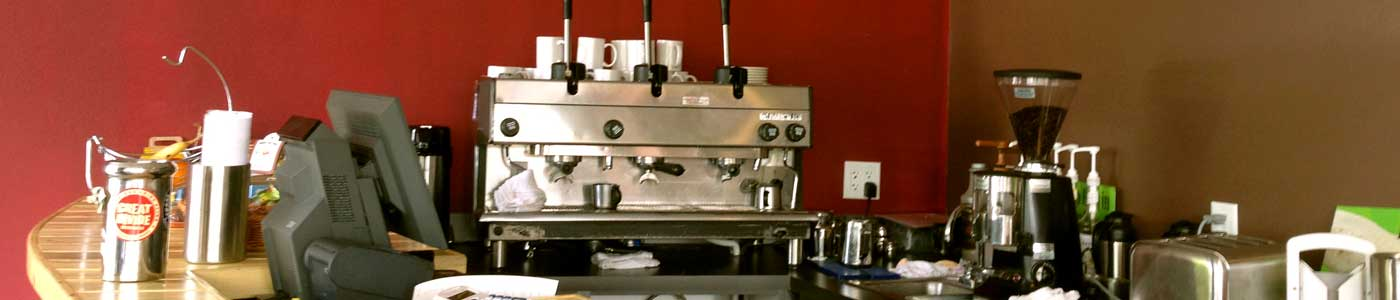
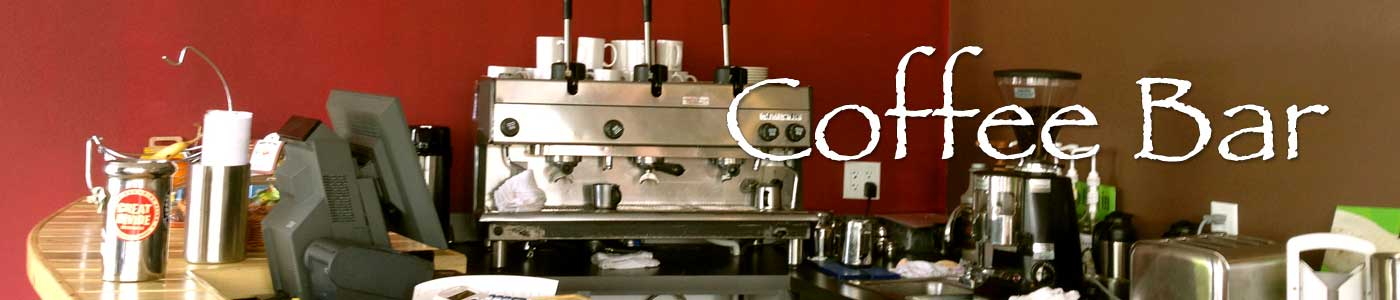
Refining appearance and front page content

Changed region(s): [[0.4914, 0.15, 0.9521, 0.54]]

diff --git a/index.html b/index.html
@@ -35,41 +35,60 @@
       <li data-target="#sip-carousel" data-slide-to="1"></li>
       <li data-target="#sip-carousel" data-slide-to="2"></li>
       <li data-target="#sip-carousel" data-slide-to="3"></li>
+      <li data-target="#sip-carousel" data-slide-to="4"></li>
+      <!--<li data-target="#sip-carousel" data-slide-to="5"></li>-->
+      <!--<li data-target="#sip-carousel" data-slide-to="6"></li>-->
     </ol>
 
     <!-- Wrapper for slides -->
     <div class="carousel-inner">
       <div class="item active">
+        <img src="img/carousel/slide_logo.jpg" alt="SiP">
+      </div>
+
+      <div class="item">
+        <a href="/wine_menu.html">
+          <img src="img/carousel/slide_wine_bottles.jpg" alt="Wine">
+        </a>
+      </div>
+
+      <div class="item">
+        <a href="/food_menu.html">
+          <img src="img/carousel/slide_snacks.jpg" alt="Snacks">
+        </a>
+      </div>
+
+      <div class="item">
+        <a href="/food_menu.html">
+          <img src="img/carousel/slide_pizza.jpg" alt="Pizza">
+        </a>
+      </div>
+
+      <div class="item">
         <img src="img/carousel/slide_2.jpg" alt="Wake up with SiP!">
-        <div class="carousel-caption">
-          <h3>Wake up with SiP!</h3>
-          <p>Start your day right with one of our hand-made espressos, lattes, teas and coffees.</p>
-        </div>
+        <!--<div class="carousel-caption">-->
+          <!--<h3>Wake up with SiP!</h3>-->
+          <!--<p>Start your day right with one of our hand-made espressos, lattes, teas and coffees.</p>-->
+        <!--</div>-->
       </div>
 
-      <div class="item">
-        <img src="img/carousel/slide_1.jpg" alt="Relax">
-        <div class="carousel-caption">
-          <h3>Relax</h3>
-          <p>Whether you're enjoying the company of friends or a good book, SiP has you covered.</p>
-        </div>
+      <!--<div class="item">-->
+        <!--<img src="img/carousel/slide_1.jpg" alt="Relax">-->
+        <!--<div class="carousel-caption">-->
+          <!--<h3>Relax</h3>-->
+          <!--<p>Whether you're enjoying the company of friends or a good book, SiP has you covered.</p>-->
+        <!--</div>-->
+      <!--</div>-->
+
+      <!--<div class="item">-->
+        <!--<img src="img/carousel/slide_3.jpg" alt="Recharge">-->
+        <!--<div class="carousel-caption">-->
+          <!--<h3>Recharge</h3>-->
+          <!--<p>If you're on the run, our fresh baked good and special items will keep you going for class, work, or play!</p>-->
+        <!--</div>-->
       </div>
 
-      <div class="item">
-        <img src="img/carousel/slide_3.jpg" alt="Recharge">
-        <div class="carousel-caption">
-          <h3>Recharge</h3>
-          <p>If you're on the run, our fresh baked good and special items will keep you going for class, work, or play!</p>
-        </div>
-      </div>
 
-      <div class="item">
-        <img src="img/carousel/slide_wine_bottles.jpg" alt="Unwind">
-        <div class="carousel-caption">
-          <h3>Unwind</h3>
-          <p>Our selection of local craft beers and assorted wines are always the best way to usher in Happy Hour.</p>
-        </div>
-      </div>
 
 
     </div>

diff --git a/css/base.css b/css/base.css
@@ -23,17 +23,28 @@ h1, h2, h3, h4 h5, h6 {
 }
 
 #sip-nav li a {
-  color: #eee;
+  color: #2C3E50;
   font-size: 18px;
 }
 
 #sip-nav li.active a {
   background: none;
-  color: #fff;
+  color: #2C3E50;
   font-weight: bold;
 }
 
+.navbar-toggle {
+  background-color: #D35400;
+  border: 1px solid #E67E22 !important;
+}
 
+.navbar-toggle:hover {
+  background-color: black;
+}
+
+.navbar-toggle span {
+  border: 1px solid #E67E22 !important;
+}
 
 .sip-outer {
   background-color: #fff;
@@ -51,6 +62,10 @@ h1, h2, h3, h4 h5, h6 {
   box-shadow: 0px 0px 5px rgba(0,0,0,.3);
   padding-bottom: 18px;
   padding-top: 18px;
+}
+
+.carousel-inner {
+  /*min-height: 200px;*/
 }
 
 #sip-carousel .carousel-caption {
@@ -134,7 +149,7 @@ h1.page-title {
 
 }
 .navbar-collapse {
-  background-color: rgba(255,255,255,.5);
+  background-color: rgba(255,255,255,.9);
 }
 
 
@@ -164,6 +179,11 @@ h1.page-title {
   .navbar-collapse {
     background-color: transparent;
   }
+
+  #sip-nav li a, #sip-nav li.active a {
+    color: #fff;
+  }
+
 }
 
 @media (min-width: 992px) {

diff --git a/partials/footer.html b/partials/footer.html
@@ -1,10 +1,10 @@
 
   <ul class='container text-center'>
     <li>&copy; 2013 SiP Boulder</li>
-    <li><a href='directions.html'>Directions</a></li>
-    <li><a href='contact.html'>Contact Us</a></li>
+    <!--<li><a href='directions.html'>Directions</a></li>-->
+    <!--<li><a href='contact.html'>Contact Us</a></li>-->
     <li><a href='about.html'>About Us</a></li>
-    <!--<li>Designed by Ben Del Vacchio</li>-->
+    <li><a href="http://ben.delvacchio.com">Designed by Ben Del Vacchio</a></li>
   </ul>
   <ul class='container text-center'>
     <li>2810 East College Avenue #3 - Boulder CO 80303</li>

diff --git a/js/base.js b/js/base.js
@@ -248,7 +248,6 @@ var format = {
         if(item.origin) box.append($('<span>', {text:extra, class:'menu-origin'}));
         return box;
     },
-
     'price':function(_price) {
         if(!_price) return $('<span>');
         var price = new Number(_price).toFixed(2);
@@ -257,7 +256,6 @@ var format = {
 
         return $('<span>').append(dollarTag).append(priceTag);
     }
-
 };
 
 
